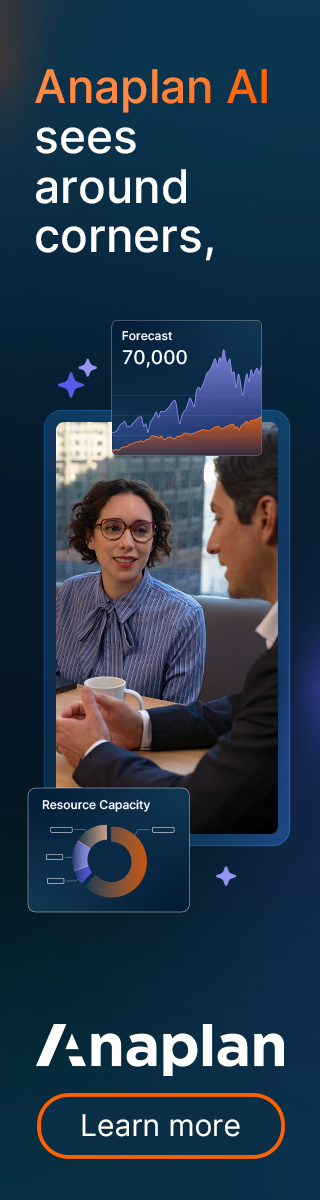
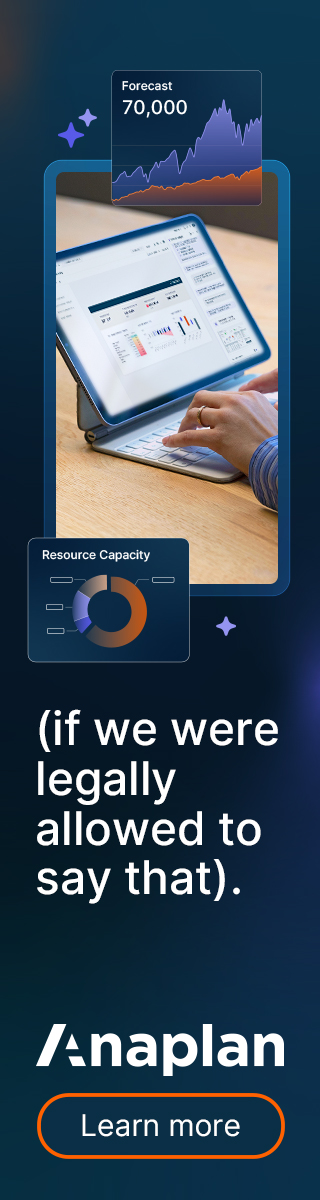
dfgv

diff --git a/batch_4/Set_2/ANAAI0099B_Finance _Banner_300x250/main.js b/batch_4/Set_2/ANAAI0099B_Finance _Banner_300x250/main.js
@@ -58,11 +58,11 @@ function animate() {
   tl1.from(split2 ? split2.chars : "#text-1b", 0.1, { y: -20, autoAlpha: 0, stagger: 0.05,}, '>');
   tl1.to(["#text-1a, #text-1b"], 0.5,{ease: "power1.in", autoAlpha: 0 }, '+=1');
 
-  tl1.to(".box", 0.5, {y:-48, ease: "sine.inOut",}, "+=0.2")
-  tl1.to(".card", 0.5, {y:-48, ease: "sine.inOut",}, "<+0.05")
+  tl1.to(".box", 0.5, {y:-56, ease: "sine.inOut",}, "+=0.2")
+  tl1.to(".card", 0.5, {y:-56, ease: "sine.inOut",}, "<+0.05")
   tl1.to(".photo", 0.5, {transform: 'translate(0px, 0px)', ease: "sine.inOut",}, "<")
 
-  .to(['.star1, .star2, .star3'], 0.5, {y: -47, ease: "sine.inOut", stagger: 0.01}, "<+0.05");
+  .to(['.star1, .star2, .star3'], 0.5, {y: -57, ease: "sine.inOut", stagger: 0.01}, "<+0.05");
 
   tl1.from(split3 ? split3.chars : "#text-3", 0.1, { y: -20, autoAlpha: 0, stagger: 0.05,}, '+=0.5');
   tl1.to(['.star, .box, .card, .photo, #text-3'], 0.2,{ autoAlpha: 0, ease: "power1.in", }, '+=2');

diff --git a/batch_4/Set_2/ANAAI0098B_Finance _Banner_160x600/index.html b/batch_4/Set_2/ANAAI0098B_Finance _Banner_160x600/index.html
@@ -45,18 +45,18 @@
             Anaplan&nbsp;<span class="text-1b-cut">AI</span>
         </div>
         <div id="text-1b" class="copy copy1 inter absolute">
-          sees<br>around<br>corners,
+          is like<br>seeing<br>the future
         </div>
 
         <div id="text-3" class="copy copy1 inter absolute">
-          so you can<br>stay ahead<br>of every<br>decision.
+          (if we were<br>legally<br>allowed to<br>say that).
         </div> 
 
         <div id="text-4" class="copy copy2 inter absolute">
           Right decisions,<br />
           right now<sup>®</sup>
         </div>
-      <!-- <img src="images/f4.jpg" class="full-width absolute" style="opacity: .5; z-index: 1111;" alt=""> -->
+      <!-- <img src="images/f2.jpg" class="full-width absolute" style="opacity: .5; z-index: 1111;" alt=""> -->
       <div id="solid" class="absolute hidden"></div>
 
       <div id="bgExit"></div>

diff --git a/batch_4/Set_2/ANAAI0099B_Finance _Banner_300x250/styles.css b/batch_4/Set_2/ANAAI0099B_Finance _Banner_300x250/styles.css
@@ -273,8 +273,8 @@ html, body {
 
 .box{
   position: relative;
-  left: 94px;
-  top: 63px;
+  left: 97px;
+  top: 72px;
   width: 168px;
   height: 117px;
   border-radius: 10px;
@@ -317,24 +317,23 @@ html, body {
 
 .star{
   position: absolute;
-  top: 167px;
-  left: 54px;
+  top: 176px;
+  left: 57px;
   width: 18px;
 }
 .star2{
-  left: 272px;
-  top: 117px;
+  left: 275px;
+  top: 126px;
   width: 6px;
 }
 .star3{
-  top: 57px;
-  left: 85px;
+  top: 66px;
+  left: 88px;
   width: 6px;
 }
 .card{
   position: absolute;
-  left: 23px;
-  top: 79px;
+  left: 26px;
+  top: 88px;
   width: 87px;
-  
 }

diff --git a/batch_4/Set_2/ANAAI0099B_Finance _Banner_300x250/index.html b/batch_4/Set_2/ANAAI0099B_Finance _Banner_300x250/index.html
@@ -55,7 +55,7 @@
           Right decisions,<br />
           right now<sup>®</sup>
         </div>
-      <img src="images/f3.jpg" class="full-width absolute" style="opacity: .5; z-index: 1111;" alt="">
+      <!-- <img src="images/f2.jpg" class="full-width absolute" style="opacity: .5; z-index: 1111;" alt=""> -->
       <div id="solid" class="absolute hidden"></div>
 
       <div id="bgExit"></div>
